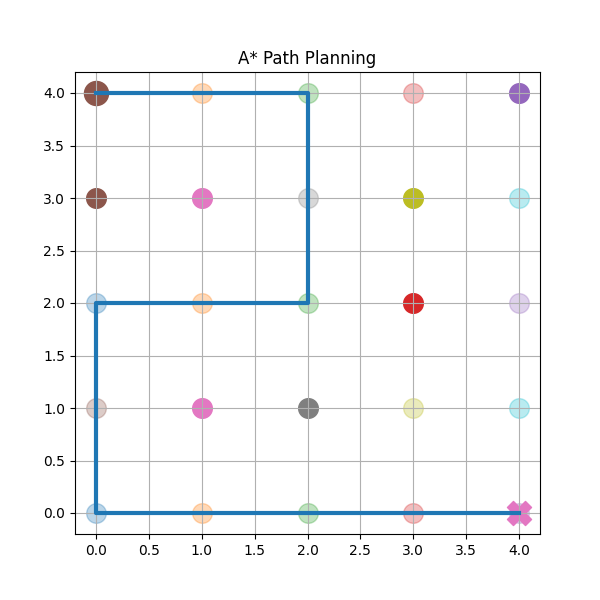
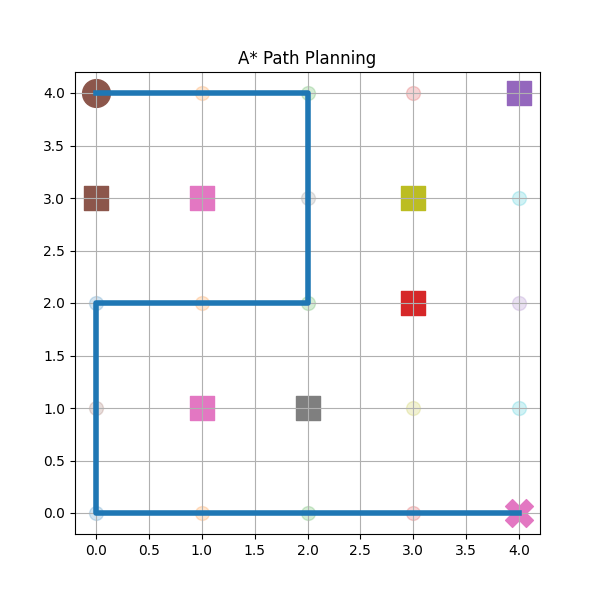
Improved visualization and project clarity

diff --git a/main.py b/main.py
@@ -92,24 +92,53 @@ def visualize(grid, path, start, goal):
     for r in range(rows):
         for c in range(cols):
             if grid[r][c] == 1:
-                plt.scatter(c, rows - r - 1, s=200)  # obstacle
+                plt.scatter(c, rows - r - 1, s=300, marker='s')  # obstacle
             else:
-                plt.scatter(c, rows - r - 1, s=200, alpha=0.3)
+                plt.scatter(c, rows - r - 1, s=100, alpha=0.2)
 
     # Draw path
     if path:
         x = [p[1] for p in path]
         y = [rows - p[0] - 1 for p in path]
-        plt.plot(x, y, linewidth=3)
+        plt.plot(x, y, linewidth=4)
 
-    # Start & Goal
-    plt.scatter(start[1], rows - start[0] - 1, s=300, marker='o')
-    plt.scatter(goal[1], rows - goal[0] - 1, s=300, marker='X')
+    # Start and Goal
+    plt.scatter(start[1], rows - start[0] - 1, s=400, marker='o')
+    plt.scatter(goal[1], rows - goal[0] - 1, s=400, marker='X')
 
     plt.title("A* Path Planning")
-    plt.grid()
+    plt.grid(True)
     plt.savefig("output.png")
     plt.show()
+    def visualize(grid, path, start, goal):
+    rows = len(grid)
+    cols = len(grid[0])
+
+    plt.figure(figsize=(6, 6))
+
+    # Draw grid
+    for r in range(rows):
+        for c in range(cols):
+            if grid[r][c] == 1:
+                plt.scatter(c, rows - r - 1, s=300, marker='s')  # obstacle
+            else:
+                plt.scatter(c, rows - r - 1, s=100, alpha=0.2)
+
+    # Draw path
+    if path:
+        x = [p[1] for p in path]
+        y = [rows - p[0] - 1 for p in path]
+        plt.plot(x, y, linewidth=4)
+
+    # Start and Goal
+    plt.scatter(start[1], rows - start[0] - 1, s=400, marker='o')
+    plt.scatter(goal[1], rows - goal[0] - 1, s=400, marker='X')
+
+    plt.title("A* Path Planning")
+    plt.grid(True)
+    plt.savefig("output.png")
+    plt.show()
+    print("Path length:", len(path))
 
 
 # =========================
